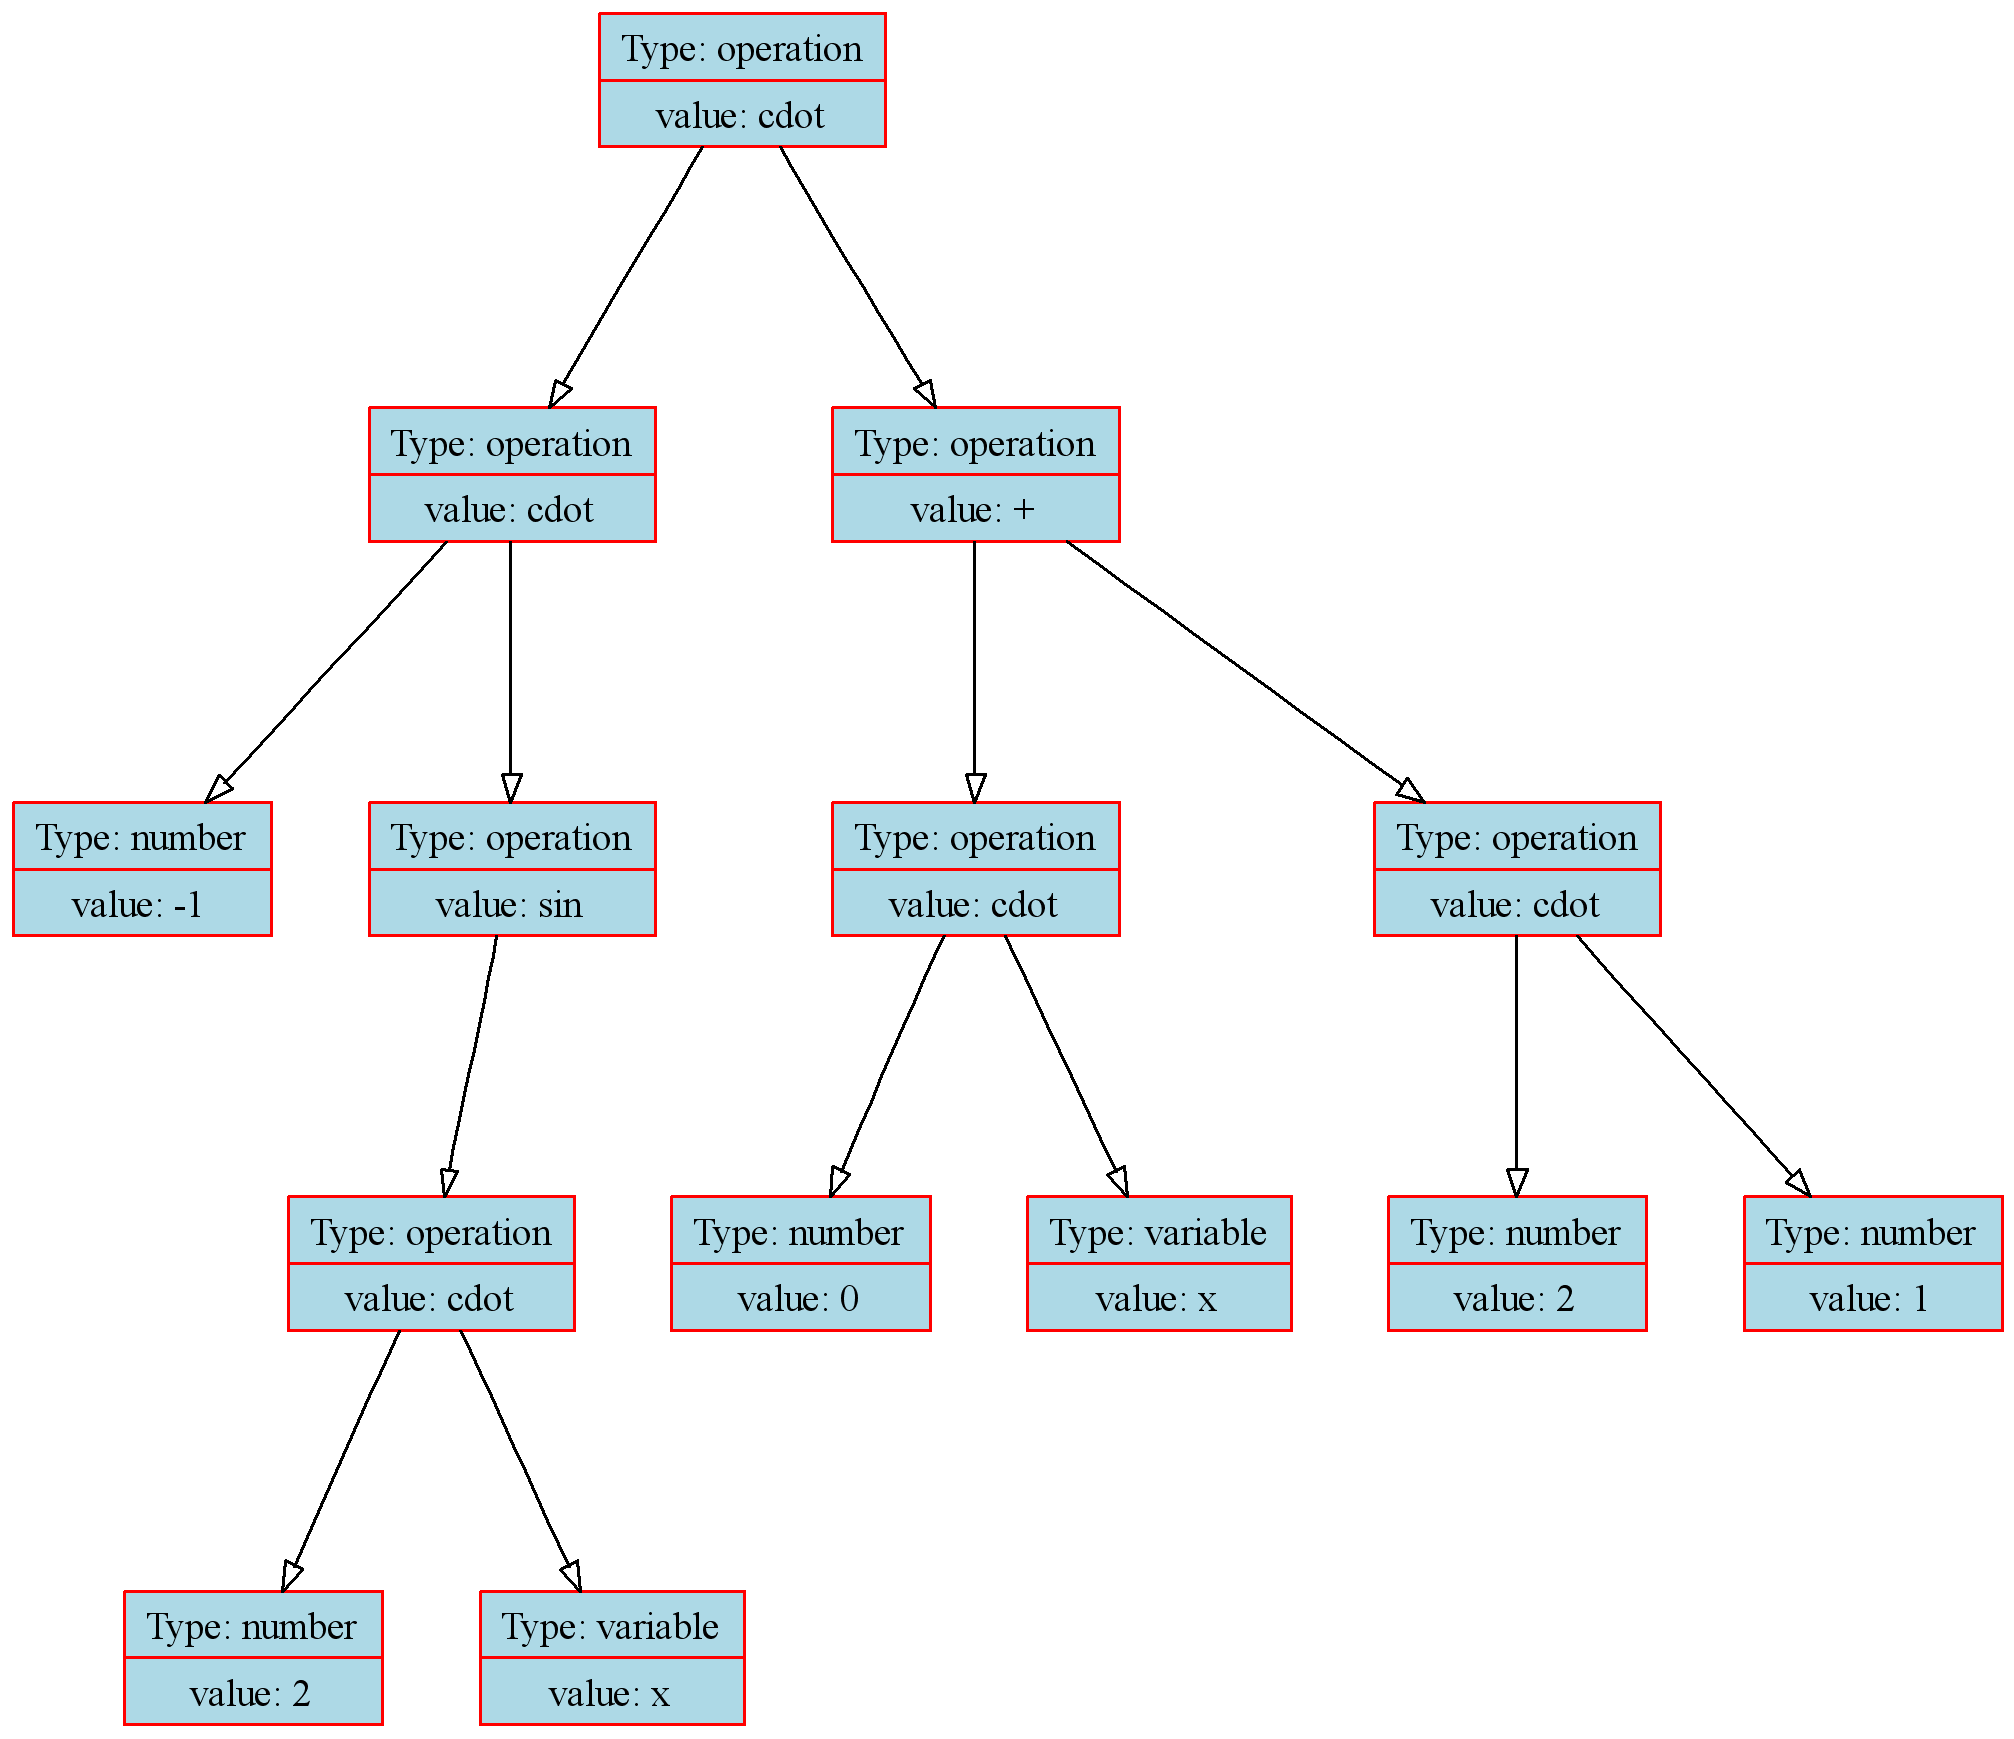
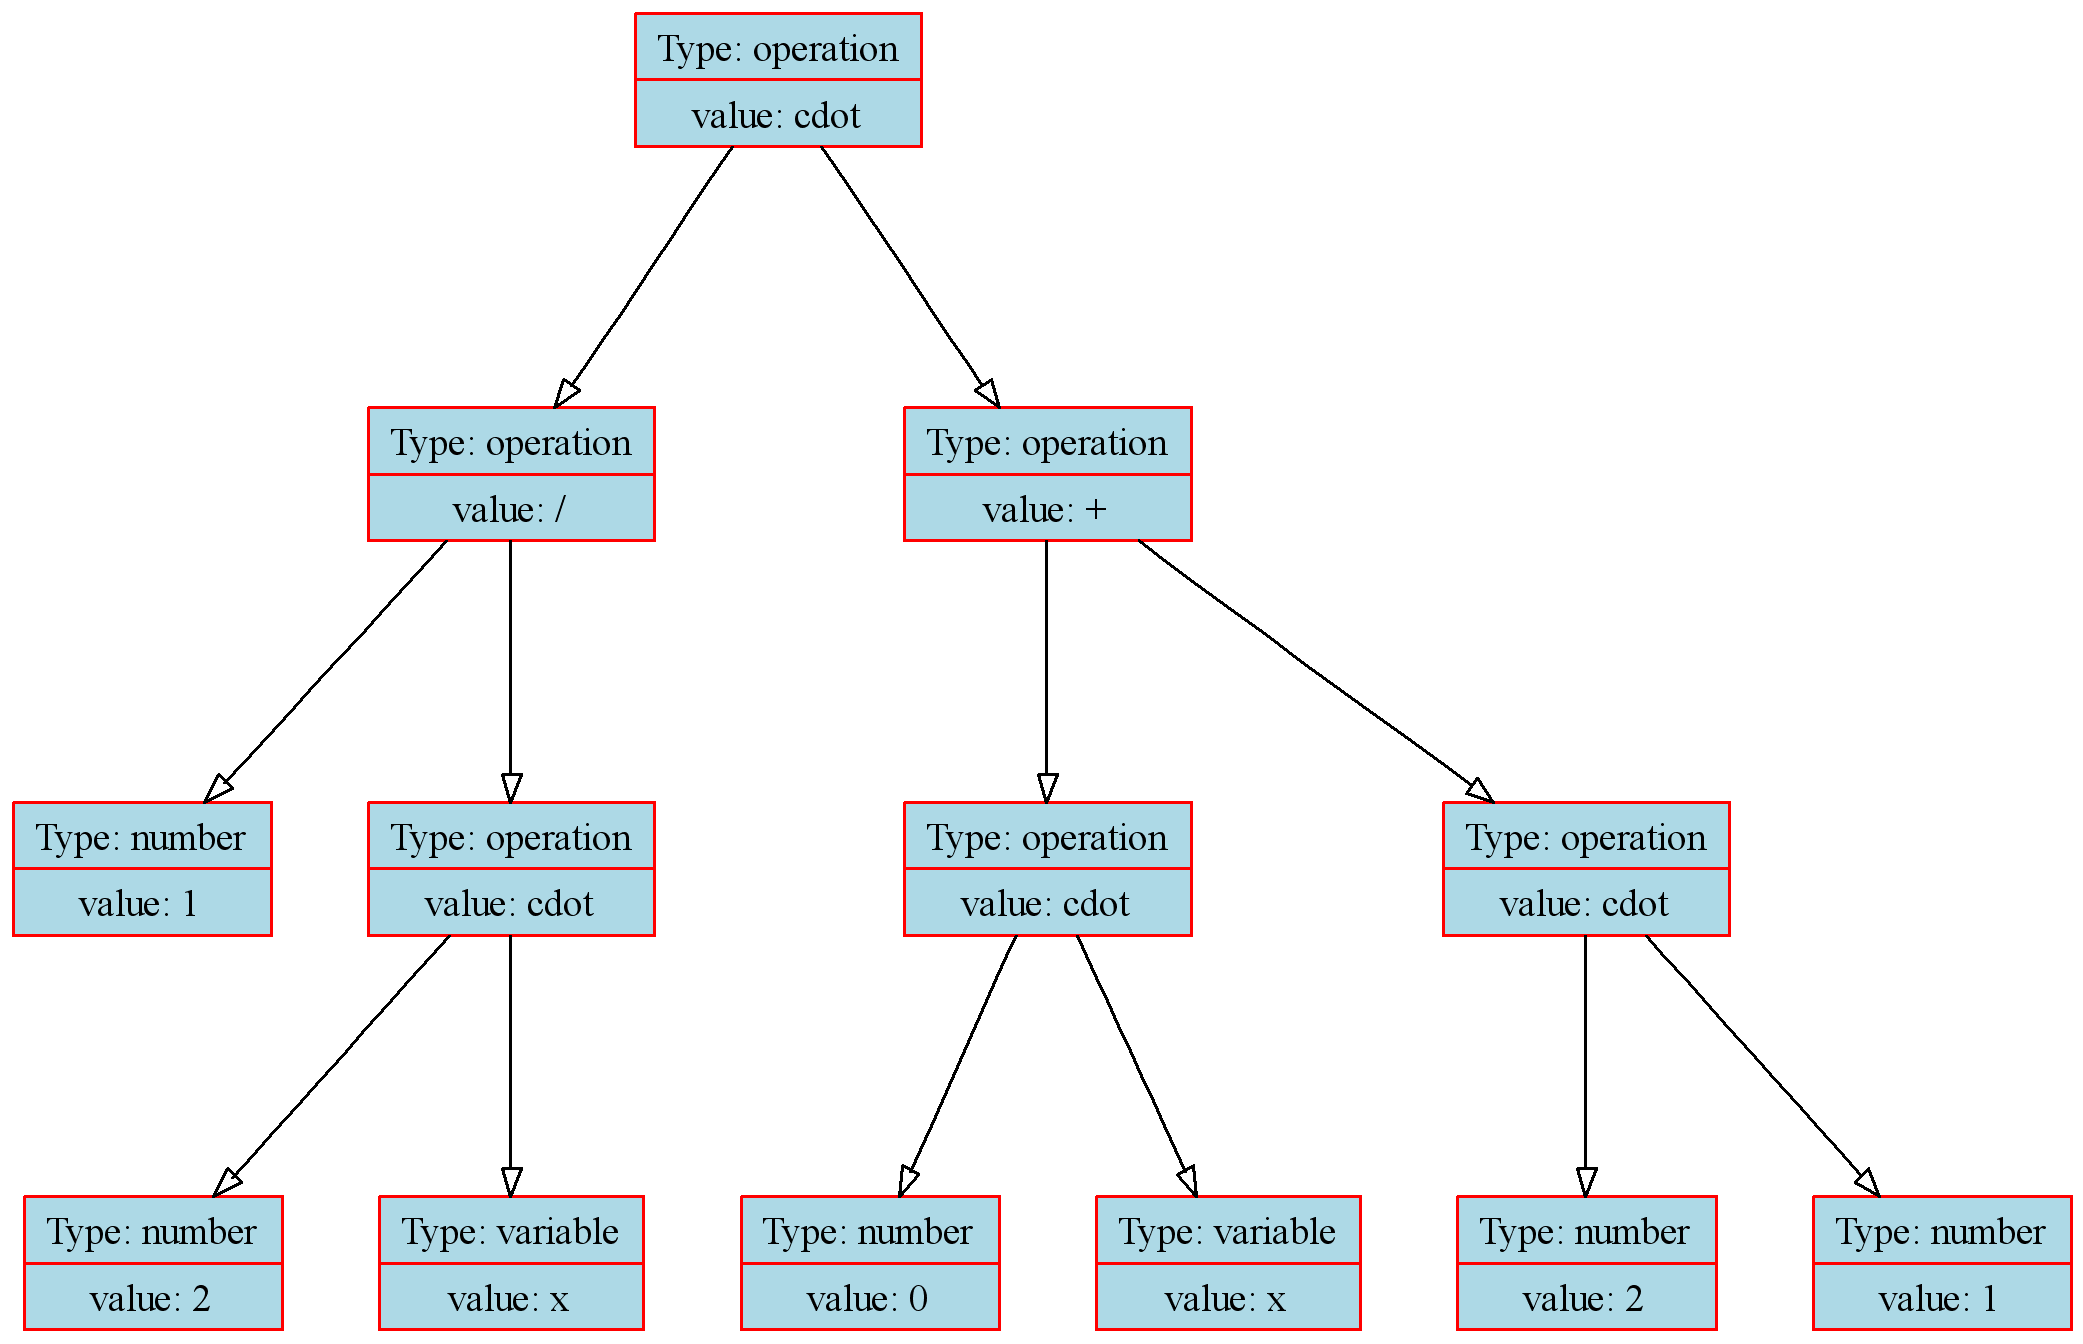
improved tex output, added fractions

diff --git a/src/derivative.cpp b/src/derivative.cpp
@@ -119,6 +119,9 @@ TreeNode* GetDerivative (const TreeNode* cur_node)
         case COS:
             return MUL(MUL(GET_DIGIT (-1), SIN(nullptr, CR)), DR);
 
+        case LN:
+            return MUL(DIV(GET_DIGIT (1), CR), DR);
+
         default:
             break;
         }
@@ -253,6 +256,7 @@ Operations GetOpType (const char str[])
     else if (CMP (sin)) return SIN;
     else if (CMP (cos)) return COS;
     else if (CMP (sqr)) return SQR;
+    else if (CMP (ln)) return LN;
 
     else return UNKNOWN;
 }
@@ -340,28 +344,56 @@ void PrintInOrder (TreeNode* node, FILE* out_file)
 {
     fprintf (out_file, "{");
     printf ("Type %d Val %d\n", node->type, node->value.op_val);
-    bool need_div = (node->type == OP_T && node->value.op_val == MUL);
 
-    // if (need_div) printf ("Loooooooool\n");
+    bool need_div  = isNeedDivision (node);
+
+    bool need_frac = (node->type == OP_T && node->value.op_val == DIV);
+
+    if (need_frac) fprintf (out_file, "\\frac{");
 
     if (need_div) fprintf (out_file, "(");
     if (node->left)  PrintInOrder (node->left,  out_file);
     if (need_div) fprintf (out_file, ")");
 
-    if  (node->type == NUM_T)
-        fprintf (out_file, "%lg", node->value.dbl_val);
-    else if (node->type == OP_T)
-        fprintf (out_file, "%s", GetOpSign (node->value.op_val));
-    else
-        fprintf (out_file, "%s", node->value.var_name);
-    
+    if (!need_frac)
+    {
+        if  (node->type == NUM_T)
+            fprintf (out_file, "%lg", node->value.dbl_val);
+        else if (node->type == OP_T)
+            fprintf (out_file, "%s", GetOpSign (node->value.op_val));
+        else
+            fprintf (out_file, "%s", node->value.var_name);
+    }
+    else 
+    {
+        fprintf (out_file, "}{");
+    }
+
     if (need_div) fprintf (out_file, "(");
     if (node->right) PrintInOrder (node->right, out_file);
     if (need_div) fprintf (out_file, ")");
 
+    if (need_frac) fprintf (out_file, "}");
+
     fprintf (out_file, "}");
 
 } 
+
+
+bool isNeedDivision (TreeNode* op_node)
+{
+    if (op_node->type != OP_T) return false;
+    if (op_node->value.op_val != MUL) return false;
+    
+    TreeNode* left_child  = op_node->left;
+    TreeNode* right_child = op_node->right;
+
+    if (left_child->left || left_child->right ||
+        right_child->left || right_child->right) return true;
+    
+    return false;
+
+}
 
 
 char* GetOpSign (Operations op)
@@ -391,6 +423,9 @@ char* GetOpSign (Operations op)
     
     case COS:
         return "cos";
+    
+    case LN:
+        return "ln";
 
     default:
         return "?";

diff --git a/include/dsl.h b/include/dsl.h
@@ -7,5 +7,7 @@
 #define ADD(L, R) CreateNode (OP_T, 0, ADD, nullptr, L, R)
 #define SUB(L, R) CreateNode (OP_T, 0, SUB, nullptr, L, R)
 #define MUL(L, R) CreateNode (OP_T, 0, MUL, nullptr, L, R)
+#define DIV(L, R) CreateNode (OP_T, 0, DIV, nullptr, L, R)
 #define SIN(L, R) CreateNode (OP_T, 0, SIN, nullptr, L, R)
 #define COS(L, R) CreateNode (OP_T, 0, COS, nullptr, L, R)
+#define LN(L, R) CreateNode (OP_T, 0, LN, nullptr, L, R)

diff --git a/data/output.tex b/data/output.tex
@@ -18,6 +18,6 @@
     \date{November 2022}
 
     \begin{document}
-    \[{({({-1})\cdot({sin{({2})\cdot({x})}})})\cdot({{({0})\cdot({x})}+{({2})\cdot({1})}})}\]
+    \[{({\frac{{1}}{{{2}\cdot{x}}}})\cdot({{{0}\cdot{x}}+{{2}\cdot{1}}})}\]
 
 	\end{document}

diff --git a/include/derivative.h b/include/derivative.h
@@ -118,6 +118,8 @@ void DrawTree (TreeNode* root);
 
 void PrintInOrder (TreeNode* node, FILE* out_file);
 
+bool isNeedDivision (TreeNode* op_node);
+
 char* GetOpSign (Operations op);
 
 void PrintPostOrder (TreeNode* node, FILE* out_file);
